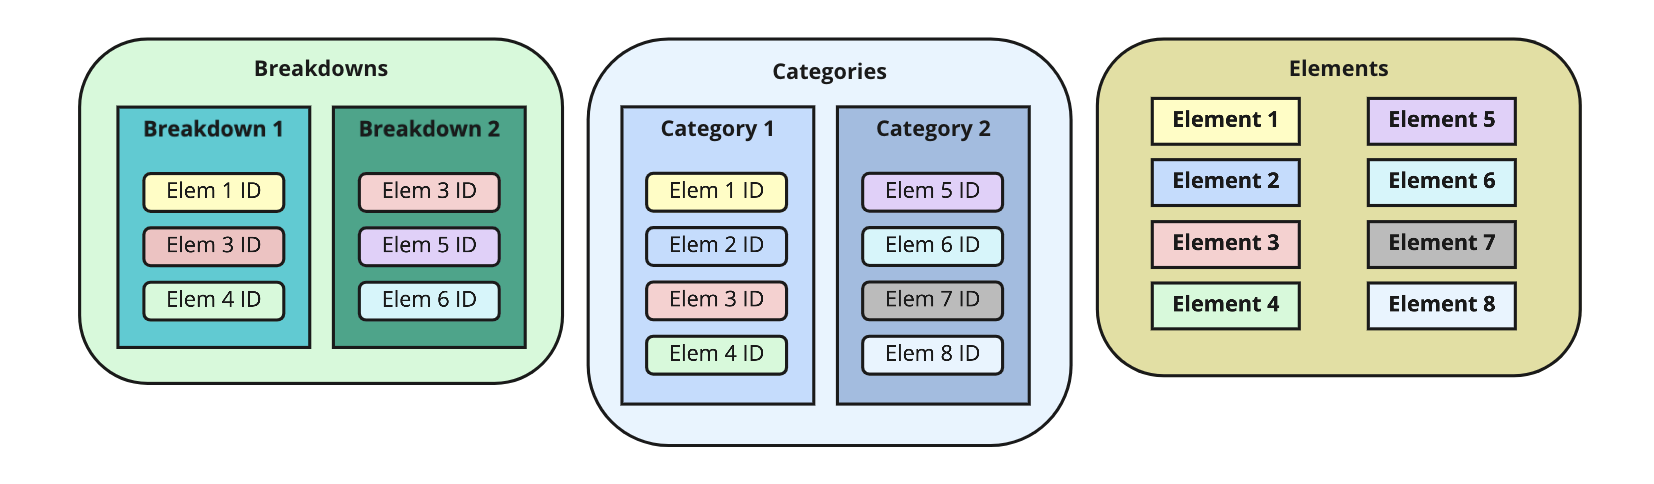
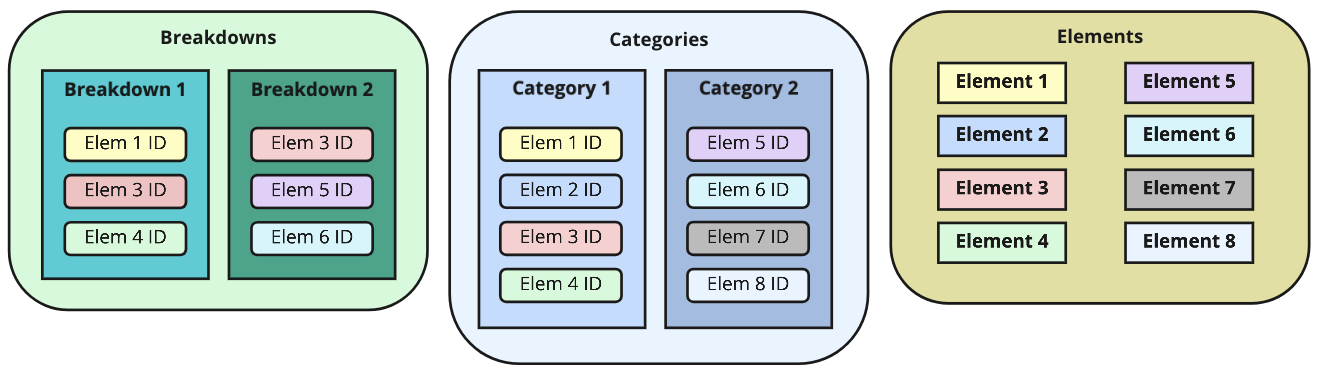
update images

diff --git a/docs/docs.md b/docs/docs.md
@@ -38,7 +38,7 @@ Each [breakdown object](#breakdown-objects) in this scenario just has a `type` o
 
 When creating a schedule out of these breakdowns, all of the breakdown IDs are added to a stripboard, as an ordered list. Additional breakdown types are created to represent banners and day breaks and added to the stripboard. A calendar is applied to each stripboard so that the day breaks can properly reflect shoot dates and days off.
 
-<img src="../images/structure.svg" alt="alt text" width="466" height="200">
+<img src="../images/structure.png" alt="alt text">
 
 In a schedule, [breakdown objects](#breakdown-objects) are one of three `types`: 'scene', 'day' or 'banner'.
 
